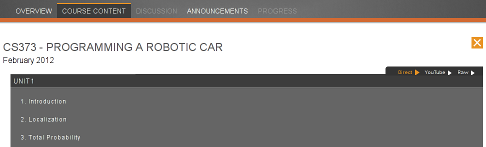
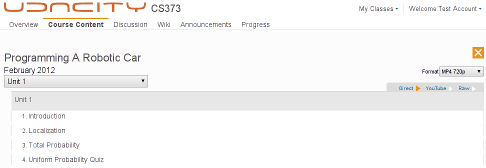
Updated instruction page to match new version

diff --git a/index.html b/index.html
@@ -55,6 +55,7 @@
 		<li>Clicking it brings up a full list of videos for the
 		course.  This can be dismissed by clicking the close button in
 		the upper right corner.  <img src="step2.png"/></li>
+		<li>Select the unit to download and the video format you prefer.</li>
 		<li>Three output formats are available:
 		  <ul>
 			<li><b>Direct</b> links to video files.  These are
@@ -65,25 +66,14 @@
 			for the video.  Handy for use
 			with <a href="http://rg3.github.com/youtube-dl/">youtube-dl</a>.</li>
 			<li><b>Raw</b> representation of the direct links for feeding to wget or another batch
-			downloader.  Hint:
+			downloader.  To use these with wget, save the list of links in a text file and run:
 			  <pre>
-$ wget -i - --content-disposition --trust-server-names &lt;&lt;EOF
-## paste list of links here ##
-EOF
+$ wget -i links.txt --content-disposition --trust-server-names
 </pre></li>
 		  </ul>
 		</li>
 	  </ol>
     </p>
-
-    <h2>TODO</h2>
-	<p>
-	  <ul>
-		<li>Make video format user-selectable</li>
-		<li>Clean up the general mess</li>
-		<li>...</li>
-	  </ul>
-	</p>
 
     <h2>License</h2>
     <p><a href="http://creativecommons.org/publicdomain/zero/1.0/">CC0 Public Domain</a></p>
